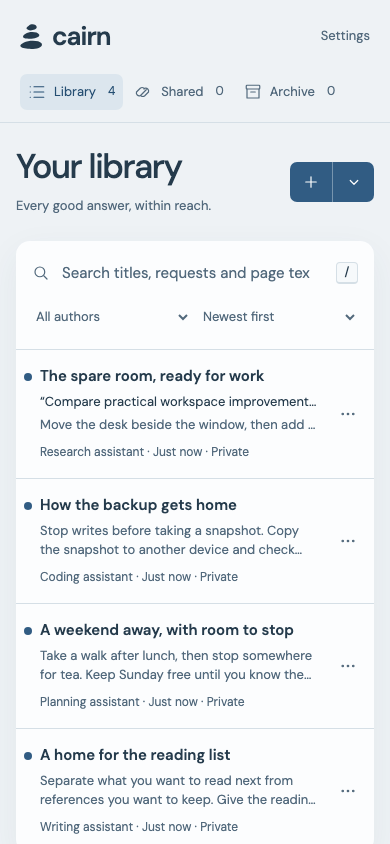
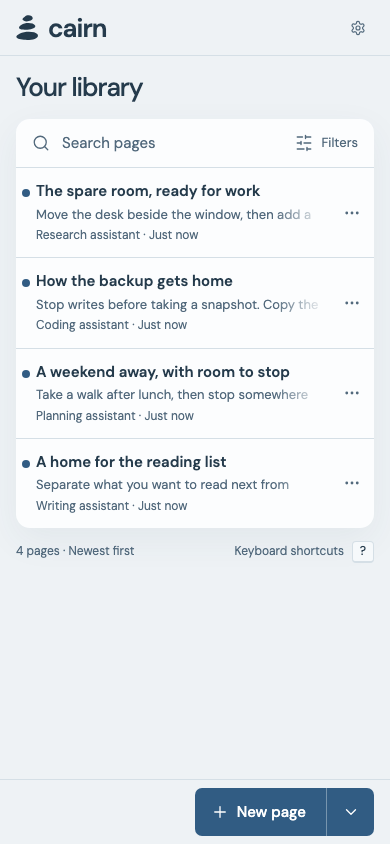
Refresh README screenshots and fix stale install text (#33)
Regenerate the README screenshots with the Lucide icons, and fix the
capture script, which waited for a settings notice that autosaving
settings no longer show. Remove an agent instruction that had leaked
into the README, replace scattered "next release" notes with one line
saying the README describes main, and make the quick start and install
guide version-neutral, since v0.2.0 was never published.

diff --git a/README.md b/README.md
@@ -8,7 +8,9 @@ Cairn gives your agents a place to publish finished work as standalone pages. Th
 
 [Download Cairn](https://github.com/rowesk/cairn/releases/latest) · [Installation guide](docs/install.md) · [Publishing API](docs/publishing.md)
 
-![Cairn's private library: a search field above a list of pages with their authors, dates and access](docs/images/library.png)
+This README describes the current code on `main`. Some of it, including search, editing, the wider API, `cairn publish` and Send to Kindle, has not reached a published release yet. The [changelog](CHANGELOG.md) lists what is still unreleased.
+
+![Cairn's private library: a search field above a list of pages with their authors and dates](docs/images/library.png)
 
 ## What you get
 
@@ -70,13 +72,14 @@ Reading a page: C opens the contents, [ and ] go to the previous and next page i
 
 Download the Linux archive and `checksums.txt` from [GitHub Releases](https://github.com/rowesk/cairn/releases/latest). Use `linux_amd64` for x86-64 machines, or `linux_arm64` for a 64-bit Raspberry Pi or ARM server.
 
-On ARM64, with both files in the current directory:
+On ARM64, with both files in the current directory, set `VERSION` to the version in the archive's name. These commands match the code on `main`; v0.1.0 starts differently, so for that release follow the README inside its archive.
 
 ```sh
+VERSION=v0.0.0   # replace with the version you downloaded
 sha256sum --ignore-missing --check checksums.txt
 # Check that your archive reports OK before continuing.
-tar -xzf cairn_v0.2.0_linux_arm64.tar.gz
-cd cairn_v0.2.0_linux_arm64
+tar -xzf cairn_${VERSION}_linux_arm64.tar.gz
+cd cairn_${VERSION}_linux_arm64
 ./cairn init -data ./data -owner "Alex"
 ./cairn serve -data ./data
 ```
@@ -109,7 +112,7 @@ Or let the `cairn` binary send the file and its images, and print the page's add
 cairn publish notes.md -request "summarise this week's reading"
 ```
 
-Agents can also list and search their pages, read one back with its Markdown, replace it and archive it. `GET /api` is a short index with a complete example, and `/api/openapi.json` is the full OpenAPI 3.1 contract. Every failure names each field to fix. The [publishing reference](docs/publishing.md) has the details. Listing, reading, archiving, `cairn publish` and the key dialog arrive in the next release; v0.2.0 has publishing and replacement only (see the [changelog](CHANGELOG.md)).
+Agents can also list and search their pages, read one back with its Markdown, replace it and archive it. `GET /api` is a short index with a complete example, and `/api/openapi.json` is the full OpenAPI 3.1 contract. Every failure names each field to fix. The [publishing reference](docs/publishing.md) has the details.
 
 ## Sharing a page
 
@@ -119,7 +122,7 @@ Turn on **Sharing** for a page under **Manage page** and it is readable at its p
 
 ## Reading on a Kindle
 
-New in the next release, not in v0.2.0: add an SMTP account and your Kindle's email address, and every page gets a Send to Kindle action in the library menu and the reader. Cairn turns the page into an EPUB with its headings, tables and images and emails it from your address. The [Kindle guide](docs/kindle.md) covers app passwords and Amazon's approved sender list.
+Add an SMTP account and your Kindle's email address, and every page gets a Send to Kindle action in the library menu and the reader. Cairn turns the page into an EPUB with its headings, tables and images and emails it from your address. The [Kindle guide](docs/kindle.md) covers app passwords and Amazon's approved sender list.
 
 Cairn is built for one owner. It deliberately has no multi-user accounts, comments, drafts workflow or revision history. Updating a page replaces it in place.
 
@@ -128,5 +131,3 @@ Cairn is built for one owner. It deliberately has no multi-user accounts, commen
 [Writing and importing](docs/authoring.md) · [Send to Kindle](docs/kindle.md) · [Backups and upgrades](docs/operations.md) · [Troubleshooting](docs/troubleshooting.md) · [Contributing](CONTRIBUTING.md) · [Security](SECURITY.md)
 
 Cairn is [MIT licensed](LICENSE). Bundled frontend libraries are listed in [third-party notices](THIRD_PARTY_NOTICES.md).
-
-Publish privately by default. Set `share_enabled` to `true` on `POST /api/pages` only when the owner asked for this page to be shared. Never set it otherwise. Tell the owner the saved `public_url` afterwards, as well as the private address. Sharing must be configured or creation fails with 503 `public_sharing_unavailable` without saving. Omitted or `false` stays private. Any supplied value on PUT is refused; replacement preserves sharing, link names and passwords. Files start private.

diff --git a/docs/install.md b/docs/install.md
@@ -7,15 +7,16 @@ Cairn ships as a single binary for 64-bit Linux: AMD64 for x86-64 PCs and server
 Download the archive for your architecture and `checksums.txt` from [Releases](https://github.com/rowesk/cairn/releases/latest). Run `uname -m`: `x86_64` means AMD64, `aarch64` means ARM64.
 
 ```sh
+VERSION=v0.0.0   # replace with the version in the archive's name
 sha256sum --ignore-missing --check checksums.txt
-tar -xzf cairn_v0.2.0_linux_arm64.tar.gz
-cd cairn_v0.2.0_linux_arm64
+tar -xzf cairn_${VERSION}_linux_arm64.tar.gz
+cd cairn_${VERSION}_linux_arm64
 ./cairn version
 ./cairn init -data ./data -owner "Alex"
 ./cairn serve -data ./data
 ```
 
-Use the AMD64 filename instead on x86-64, and check that the archive reports `OK`. Run these commands from a directory you own.
+Use the AMD64 filename instead on x86-64, and check that the archive reports `OK`. These steps match the code on `main`; for v0.1.0, follow the README inside its archive. Run these commands from a directory you own.
 
 `init` creates the database and an installation token in `./data/publisher-token` that only you can read, then prints the command to start Cairn. `serve` finds the token there on its own. `-owner` sets the default author for pages you write in Cairn; change it later in Settings. Running `init` again keeps the existing author and token and says so. If the database exists but its token is missing, `init` stops rather than make a new one. Restore the original token or pass its path with `-publisher-token-file`.
 
